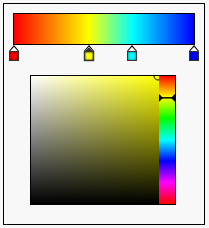
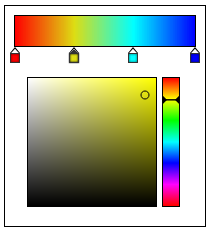
Updated the screenshot and the demo

Changed region(s): [[0.0, 0.0, 1.0, 1.0], [0.1148, 0.307, 0.8612, 0.9211]]

diff --git a/web/demo/gradient_picker_demo.html b/web/demo/gradient_picker_demo.html
@@ -6,6 +6,7 @@
     <title>Gradient picker</title>
     <link rel="stylesheet" href="gradient_picker_demo.css">
     <link rel="stylesheet" href="../css/gradient_picker.css">
+    <link rel="stylesheet" href="../css/color_picker.css">
   </head>
   <body>
     <div id="container">
@@ -16,7 +17,7 @@
       
       <div id="gradient_picker"></div>
     
-      <p>Download the source code from <a href="https://github.com/coderespawn/dart-gradient-picker#gradient-picker-widget">here</a>
+      <p>Download the source code from <a href="https://github.com/coderespawn/dart-gradient-picker">here</a>
      </div>
     <script type="application/dart" src="gradient_picker_demo.dart"></script>
     <script src="packages/browser/dart.js"></script>

diff --git a/web/css/gradient_picker.css b/web/css/gradient_picker.css
@@ -17,9 +17,7 @@
 }
 
 .gradient-picker-color-picker {
-  border: 1px solid black;
-  width: 144px;
   margin-top: 10px;
-  margin-left: 16px;
+  margin-left: 12px;
   display: none;
 }
